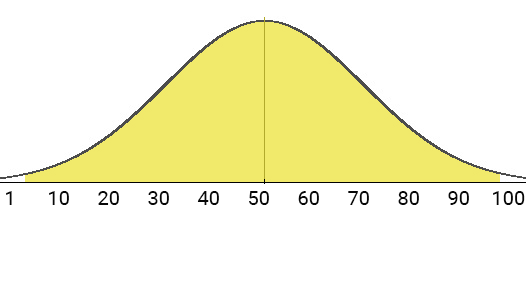
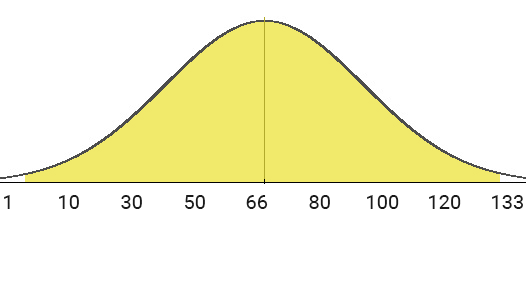
update content

diff --git a/content/数据分析/王思聪微博抽奖.md b/content/数据分析/王思聪微博抽奖.md
@@ -3,76 +3,77 @@ title: "从微博抽奖到数据分析"
 date: 2018-11-14T00:19:14+08:00
 ---
 
-感谢王思聪微博抽奖这个热点事件，我们有一个非常好的学习数据分析的机会😄😄。对不了解的读者，我们先回顾一下事件内容：
+感谢王思聪微博抽奖这个热点事件，我们获得了一个学习数据分析的机会😄😄。开始之前，我们先回顾一下这个事件：IG 战队在 LOL 比赛中夺冠，某王姓土豪发布了微博，从转发者中抽取 113名 用户发现金。
 
-IG 战队在 LOL 比赛中夺冠，某王姓土豪发布了微博
+![wsc_weibo](https://coding.net/u/WindsonYang/p/WindsonYang.coding.me/git/raw/markdown/images/weibo/wsc_weibo.png)
 
-![wsc_weibo]()
+我们可以看到大概有 **2200万** 人转发了该微博，开奖之后，出现了奇怪的事情，中奖者有 **112名** 女生，仅有 **1名** 男生。 这个悬殊的比例引起了一些争议：
 
-简单来说就是从转发者中抽奖，我们可以看到大概有 2200万 人转发了该微博，抽奖结束，一切正常，唯一奇怪的是中奖者有112名女生，仅有1名男生。
-
-这个悬殊的比例引起了很大的争议：
 - 有的人说王思聪在选后宫，只抽女生。
-- 有的人从直觉出发说微博抽奖明显有猫腻，在怎么男生用户也不可能那么少。属于偷偷筛选抽奖人的抽奖。暗箱操作，虚伪抽奖，欺诈行为。
-- 有的人说抽到的都不是 ig 的粉丝，这不公平。
-- 有的人按照抽奖的历史数据发现微博抽奖只抽取对流量贡献有价值的用户，而且得出了少女 > 小孩 > 男人的鄙视链。从而引出微博抽奖扭曲了价值观，之类的言论。
-- 有的从新浪的角度出发，表明这只是为了清除僵尸粉的措施，不过顺便也把大部分男粉丝清除掉了。
+- 有的人从直觉出发说微博抽奖明显有猫腻，再怎么男生用户也不可能那么少。属于暗箱操作，虚伪抽奖，欺诈行为。
+- 有的人从历史数据中发现微博抽奖女生中奖的概率要比男生打得多，而且得出了少女 > 小孩 > 男人的用户价值鄙视链。发表了微博抽奖扭曲了价值观之类的言论。
+- 有的从新浪的角度出发，表明这只是新浪为了清除僵尸粉的措施，不小心把大部分男粉丝清除掉了。
+- 有的人认为抽到的都不是 ig 的粉丝，这样就像把演唱会门票送给不是粉丝的人一样，并不公平。
 
-作为一名旁观者，如果没有统计与概率论背景，容易被数字所困扰，不容易明白他们在说什么，更不用说判断对错了。从我负责任地来看，极大部分知乎，微博上的回答都很片面而且带有情绪，统计学是一个工具，而且是可以根据使用者的主观意识去操控的工具。我个人并不喜欢微博，但是我不会带着个人情绪去分析，这既容易落入自己都不知道的陷阱。这篇文章我从我的角度来分析下这个事件，要知道概率论里面并没有绝对的正确，只有相对的正确。不过，我希望读者能阅读完之后能有一些初步地理解，然后能够告诉自己的孩子，学数学有什么用。更好的消息是，这篇文章不需要数学背景知识。
-- 我属于最后一种，我希望能通俗地解释清楚背后的数据，让读者得出自己的结论，我们的教育使我们缺乏独立思考的人。
+作为一名旁观者，如果没有一定的统计与概率论背景，不太容易明白他们在说什么，更不用说判断对错了。如果你本身就不喜欢微博，会更容易认同诋毁微博方的观点。不过，这种根据自己的喜好所得出的结论是自欺欺人而不是真相。统计学是一个工具，而且是可以根据使用者的主观意识去操控的工具。**这篇文章通俗地解释整个事件背后发生的原因，让读者得出自己的结论，独立思考远比随波逐流重要。更好的消息是，这篇文章不需要任何数学背景知识。可以说，只要在今年双十一懂得如何凑单，都能看懂。**
 
-我们这篇文章只涉及极少的数学知识，可以说，只要在双十一懂得凑单，都能看懂。
+#### 回到小型微博
+我们坐了时光机器，回到微博刚开始发展的时候，那时候微博一共只有 100名 用户，刚好 50名 男生 50名 女生，
 
-#### 小型微博
-我们坐了时光机器，回到微博刚开始发展的时候，那时候微博只有 100名 用户，而且刚好 50名 男生 50名 女生，
+![男女](https://coding.net/u/WindsonYang/p/WindsonYang.coding.me/git/raw/markdown/images/weibo/male_female.png)
 
-![男女]()
+微博为了庆祝这个里程碑举办了一次抽奖活动，从所有用户中里面随机抽取 **100名** 中奖者。毫无疑问地，我们能肯定中奖者的男女比例一定是 **1 比 1**，因为把所有用户都抽到了，皆大欢喜。
 
-这时候微博举办抽奖活动，从所有用户中里面随机抽取 100名 中奖者，我们能肯定抽奖结果男女比例一定是 1 比 1，因为我们把所有用户都抽到了，皆大欢喜。
+慢慢越来越多人加入微博，现在已经有 1000名 用户，男女用户比例不变，还是 1 比 1。微博举行第二次抽奖，这时候还是从所有用户中随机抽取 100名 中奖者，那么这个时候，中奖者的男女比例是多少呢？我们不知道，有可能还是 1 比 1，有可能 60名女生，40名男生。也有可能全是女生。不需要用到数学公式，我们知道，**男女用户数量相近的情况会比全是女生出现的概率要大。**为什么？想象你参加一个游戏。
 
-慢慢加入越来越多人加入微博了，当微博第二次抽奖的时候已经有 1000名 用户，此时的男女用户比例不变，还是 1 比 1。
-这时候从里面随机抽取 100名 中奖者，结果的男女比例是多少呢？我们不知道，有可能还是 1 比 1，有可能 60名女生，40名男生。也有可能全是女生。从经验来判断，男女用户数量相近会比全是男生出现的概率要大。如果你不确定的话，想象一个场景。
+**一个箱子里装了 50个 Dior ，50个 YSL 的外形一致的唇膏。充分混合后，要求从箱子里连续抽出 50个 Dior 的唇膏。**
 
-一个箱子里装了 50个 Dior ，50个 YSL的外形一致的唇膏。充分混合后，请你从里面连续抽出 50个 Dior 的唇膏。
+额，这太难了吧。你说。因为抽的时候必须**靠运气避开所有 YSL 的唇膏。**好吧，那我修改下规则，同样的条件下允许你错 10次，抽 50次 里面有 40个 Dior 的唇膏就好。这虽然还是很难，但是要比一开始要简单，**因为这种情况允许你犯错 10次，所以成功的机会更高。**回到刚刚微博抽奖的问题，抽 100名用户，要求全部是女生的话，必须避开另外的 500名 男生用户。所以这种情况出现的概率比允许犯错（90名 女生，10名 男生）要出现的概率更低，具体多低呢？下面这个图片显示了中奖者女生数量出现的概率大小，越高代表概率越大。
 
-额，这太难了吧。你说。好吧，那我允许你错 5次，抽 50个 唇膏中间有 45个 Dior的唇膏就好。这虽然还是很难，但是要比刚开始要简单，因为我允许你犯错 5次。这种允许犯错和我们刚刚说到的情况一样，如果要抽到 100名 女生的话，必须非常小心翼翼地避开男生。这种避开使这种情况出现的概率要更低，具体多低呢？下面这个图片显示了女生出现数量的概率大小，越高代表概率越大。
+![normal_dis](https://coding.net/u/WindsonYang/p/WindsonYang.coding.me/git/raw/markdown/images/weibo/normal_100.png)
 
-![normal_dis]()
+我们可以看到中间 50 的高度最高，那么是不是抽到 50名 女生的概率最高呢？是，也不是，在考试中如果这样回答可能会得到满分，但这并不代表是事实。如果你手边有硬币的话，可以试试抛 10次，你会发现更有可能出现的是 6次 正面或者 6次 反面的情况，而不是刚刚好 5次 正面，5次 反面。奇怪，不是出现 5次 的概率最高吗？这和我们的理论不符合，为什么呢？**因为上面的图表没有列出所有的可能性**，我重新绘制了一张新的图表，如下：
 
-我们可以看到中间的抽到 50名 女生的高度最高，那么是不是抽到 50名 女生的概率最高呢？是，也不是。在国内的考试如果这样回答可能会得到满分，但是这并不代表是正确的。如果你手边有硬币的话，可以试试抛十次，你会发现更有可能出现的是 6次正面，4次反面的情况，而不是刚刚好 5次正面，5次反面的情况。实验与理论不符合，该怎么解释呢？其实上面的图表没有列出所有的可能性，我重新绘制了一张新的图表，如下：
+![normal_dis2](https://coding.net/u/WindsonYang/p/WindsonYang.coding.me/git/raw/markdown/images/weibo/new_normal_100.png)
 
-![normal_dis2]()
+我们可以看到，**新的图表中，+2 的意思是其中一方比另外一方要多 2名 的情况，也就是抽到 49名 女生和抽到 51名 女生出现的概率相加，**你可能会问，这算一种情况吗？这就是现实问题有趣的地方，它跳脱于理论的束缚。这个抽奖如果抽到 100名 女生，我们会很惊讶。同时，如果抽到 100名 男生的话，我们也是同样地惊讶。**我们更关注的是一边比另外一边多的数量，也就是相对的关系。抽到 49名 女生和 51名 女生 这2种 情况都是一边比另外一边多 2名。所以属于一种情况。**理解这点就能理解为什么硬币更容易出现 6次 正面或者 6次 反面的情况，还有我们接下来讲的现代微博问题。
 
-我们可以看到，新的图表中，最有可能的情况是男生比女生多一名，或者女生比男生多一名，在第一张图片中等于把最高点两边的高度相加。不过即使这样，大幅度的偏移出现的概率依然非常低，只抽到一名男生 + 只抽到一名女生。
+#### 现代微博
+从微博 CEO 的微博中我们可以得知这次王思聪的抽奖转发参与的男女比例是 **1 比 1.2**
 
+![weibo_ceo](https://coding.net/u/WindsonYang/p/WindsonYang.coding.me/git/raw/markdown/images/weibo/laiqu_weibo.png)
 
-从微博 CEO 的微博中我们可以得知转发参与的男女比例是 1 比 1.2
+参加男女比例相近，那么出现如此悬殊的比例，正常吗？有的人说虽然这是**小概率事件，**但是也有可能发生。首先我们理解下什么是**小概率事件。**生活中最容易接触的就是彩票，假设中彩票头奖的概率是一千万分之一，那么从个人来说，如果只买一张的话就中头奖，这就是一个小概率事件。不过如果我们从整体来说，假设一共有 2000万 人买彩票，每人买 1注，那么中彩票这件事就不是一个小概率事件了。可以说每开一次奖，都很有可能有人中头奖。
 
-![weibo_ceo]()
-
-这条微博参加男女比例相近，那么出现如此悬殊的比例，正常吗？有的人说虽然这是小概率事件，但是也有可能发生。首先我们理解下什么是小概率事件。生活中最容易接触的，彩票，假设中彩票头奖的概率是一千万分之一，那么从个人来说，如果只买一张的话就中头奖，那么确实是一个小概率事件。不过如果我们从整体来说，假设一共有 2000万 人买彩票，每人买一注，当然可能会有重复的。那么中彩票这件事就不是一个小概率事件了。可以说每开一次奖，都会有人中头奖。回到微博这里，这个概率是多少呢。大概是吧0.0001中间加多 30个 0（可以通过此代码验证）。形象地说，假设每秒都进行这样抽奖一亿次，对，一亿次，那么一亿年也不会抽到这样的结果。虽然小概率事件可能发生，但是这样的极少概率事件的发生非常不现实。到这里，我们是否就能确定这个抽奖有问题？有猫腻？有人控制抽奖结果或者有猫腻呢？
-
-我们再看看这条微博，为了排除僵尸粉，虽然男生女生参加的比例相近，但是每个人赋予的权重不一样，所以才会有有那么悬殊的结果。权重是什么意思？从彩票的例子来说，微博按照给每个抽奖人发不同数量的彩票，自然，彩票多的人中奖的概率就高。那么这个权重怎么计算？微博并没有说，我们这里假设微博在抽奖中给每位转发的用户发放如下数量的彩票
-
-    彩票数量 = 近30天发布原创微博数量 * 10 + 微博被评论量 * 5 + 微博被转发量 * 2
-
-在这个情况下，如果你在转发后有持续发微博的话，那么中奖的概率也会提高。微博指出，男生一般都是浏览微博，比较少发与比较少被评论，和僵尸粉的行为差不多。而且微博的技术薄弱，无法区分两者，要降低抽到僵尸粉概率的话就会把抽到行为类似的普通男生中奖的概率也降低。我们先不讨论这样合不合理，这是一个两难的选择，允许僵尸粉中奖与允许中奖者偏向某一类特定的人群，微博选择了后者。
-
-解答了这个问题之后，我们看看，作为一名普通女生是一名普通男生中奖概率的多少倍。这是一个有趣的问题，从结果来看，是 131 倍，但是这只是一次抽奖，不能真正地代表背后的比例。女生中奖概率是120倍，125倍都有可能得到最终的这个结构，在统计学中，我们常常关注最有可能发生的事情，舍弃不太可能发生的事情。回到刚刚这张图片，我们可以认为，男女比例发生在中间的话，才正常。如果发生在两边，那么就代表有问题。
+这次微博抽奖有 2200万 人参加，男女比例 **1 比 1.2，**，中奖者有 132名，其中 131名都是男生或者都是女生的概率是多少。这是一个超几何分布的问题，有兴趣的读者可以自己了解，从结果来看，概率低得难以置信，**数字上来说是把 0.01% 中间再加多 30个 0。**如果中彩票的概率是下图左边的圆，那么这个结果的概率就是右边那个点。
 
 
 
-我们只需要计算刚刚好达到边界的比例，感谢 wq 老师，代码在此
 
-也就是说只有当女生中奖概率是男生的40倍的情况下，我们才不会对这个结果感到差异，总的来说，虽然看起来男女参加比例是1:1.2，实际上，男女的彩票比例确实1：50，最后我们得到了一个结论，如果你是女生，那么你中奖的概率就是男生的 40倍。这个抽奖公平吗？看不同人的理解，lg的粉丝可能觉得起码要喜欢lg才行，那么怎么才算喜欢呢？发过微博算吗？发过很多个微博呢？去过现场？握过手？这没有一个标准。怎样才是真正的公平。
+什么，没找到点？对啊，因为小到根本画不了。**形象地说，假设每秒都进行这样抽奖一亿次，对，一亿次，那么一亿年也不会抽到这样的结果。**这样的极少概率事件的发生非常不现实，小概率事件也无法解释。到这里，我们是否就能确定有人控制抽奖结果或者有当中有猫腻呢？
 
-因为微博为了排除一些僵尸粉，一些只转发的号就只发一张彩票或者根本不发，屏蔽僵尸粉这个很有必要，不过很明显新浪做的不够，而活跃度高的账号则发放多张彩票。我们假设微博平台的用户是均匀分布的，也就是说微博平台并没有排除一部分人参与，僵尸粉男女比例也相近。那么我们从微博的角度来看，一名普通男生的权重是一名普通女生的多少，才能得到这个悬殊的比例呢？按照我们上一个知识点，抽奖出现偏差是最常见的情况，那么偏差到多少才是可接受的呢？这是一个很主观的问题，也是科学界持续争论的问题，我们可以这样认为，两边的情况是最不可能发生的，如果发生了，我们认为不科学，等等，什么意思，为什么？是的，两边的情况是可能出现，但是却不太可能出现。我们把不太可能出现的情况排除了我们把两边的情况排除了，也就是说当结果出现在两边区域的话，我们认定这个抽奖95%有猫腻。我们可以明显看到偏离得很远，所以即使是小概率事件，我们认为也出现问题了。
+我们再看看这条微博，微博方解释，为了排除僵尸粉，微博赋予每名用户的权重都不一样，所以才会有那么悬殊的结果。权重是什么意思呢？我们可以这样理解，**微博根据情况给每位参加的用户发不同注的彩票，自然，彩票多的人中奖的概率就高。这里的彩票就是权重。**那么每位用户的权重怎么计算出来的呢？微博官方并没有给出公式，不过这里我们假设微博发现僵尸粉的特征是很少原创微博，微博很少被评论以及被转发。所以微博就认为符合这类特征的就是僵尸粉。反之则为活跃用户，假设
 
-既然我们知道权重不同的影响，那么我们能不能这样想。
+    彩票数量 = 近30天发布原创微博数量 x 10 + 微博被评论量 x 5 + 微博被转发量 x 2
 
+通俗地来说原创微博发得越多，被评论或者转发越多，那么权重越高，中奖的概率就越高。从下图来看，给予活跃用户更高的权重这种方式确实排除了大量的僵尸粉。
+![two_overlap](https://coding.net/u/WindsonYang/p/WindsonYang.coding.me/git/raw/markdown/images/weibo/two_overlap.png)
+
+**但是这样的话，一些平时只浏览，很少发微博的人也会被降权。很多男生一般都是浏览微博，比较少发微博，微博无法分辨这是真人还是僵尸粉，只好抱着杀错一千也不放过的原则统一降权。**如下图：
+
+![three_overlap](https://coding.net/u/WindsonYang/p/WindsonYang.coding.me/git/raw/markdown/images/weibo/three_overlap.png)
+
+**我们可以看到，活跃用户是女生的概率比男生要高得多，要排除僵尸粉意味着排除更多的男生。如果提高男生中奖率的话那么也会提高僵尸粉的中奖率，允许僵尸粉中奖还是允许活跃用户中奖，微博选择了后者。我不知道微博是有意为之还是因为技术薄弱所以无法解决这个问题。不过如果这次抽奖抽到 10名 僵尸粉的话，对微博的影响相信也会同样大。**
+
+解答了这个问题之后，我们看看，一名女生的中奖概率的是男生的多少倍。这是一个非常有趣的问题，从抽奖结果 **132 比 1** 来看，有的读者可能会误以为是 132 倍，但是这只是一次抽奖的结果，不能完全代表中奖的概率。**即使女生中奖概率是男生的 120倍，125倍 都有可能得到 **132 比 1** 这个结果。**我们要求的是，当女生的中奖概率最少是男生的多少倍，出现这个结果，我们不会感到惊讶。**在统计学中，我们常常关注最有可能发生的事情。回到第一张图表，我们可以认为，出现在中间黄色区域的情况才是正常的，两边的白色区域虽然可能出现，但是我们会觉得惊讶。
+
+![three_overlap](https://coding.net/u/WindsonYang/p/WindsonYang.coding.me/git/raw/markdown/images/weibo/normal_100_color.png)
+
+
+我们需要计算的是当男女比例达到某个值的时候，右边黄色区域的边界刚好出现 132 这样的情况。感谢 wanqi 老师，帮我计算出这个[边界]()。也就是说只有当女生中奖概率是男生的 43倍 的情况下，我们才不会对这个结果感到惊讶。总的来说，虽然看起来男女参加比例是 1 比 1.2，实际上，女生的中奖概率是男生的 43倍。这个抽奖公平吗？看不同人的理解，ig 的粉丝可能觉得起码要喜欢 ig 才行，那么怎么才算喜欢呢？发过微博算喜欢吗？去过现场算更喜欢吗？这没有定量的标准。
 
 我最近作为老师参加广外 coding girls club 的活动，我们用一天的时间免费教授学生用 Python 做数据分析，这是一个非常有趣的体验，有趣得能放上 Airbnb 做付费体验了，学生来自翻译专业，工商管理，大部分以后并不会成为程序员，那么为什么要去学习数据分析，艾倫伯格在他的书《数学教你不犯错》中给了一个好好的回答：
 
 “会数学就像戴上了X光眼镜，能从混乱无序的世界表象里，看透其后隐藏的结构。数学是一门不会把事情搞错的学问，它的技术与习惯经历过许多世纪的辛勤努力与论辩。一旦手中有数学当工具，你可以更深刻，更稳健，更有意义地了解世界。”
 
-如果不从数据出发，仅仅凭着自己的主观去推断，得到自己脑中的结果，完全是自欺欺人。如果阅读完这篇文章，你能得到自己的想法，能够独立地思考。那么恭喜你。
+如果阅读完这篇文章，你能独立思考得到自己的结论，那么恭喜你。
